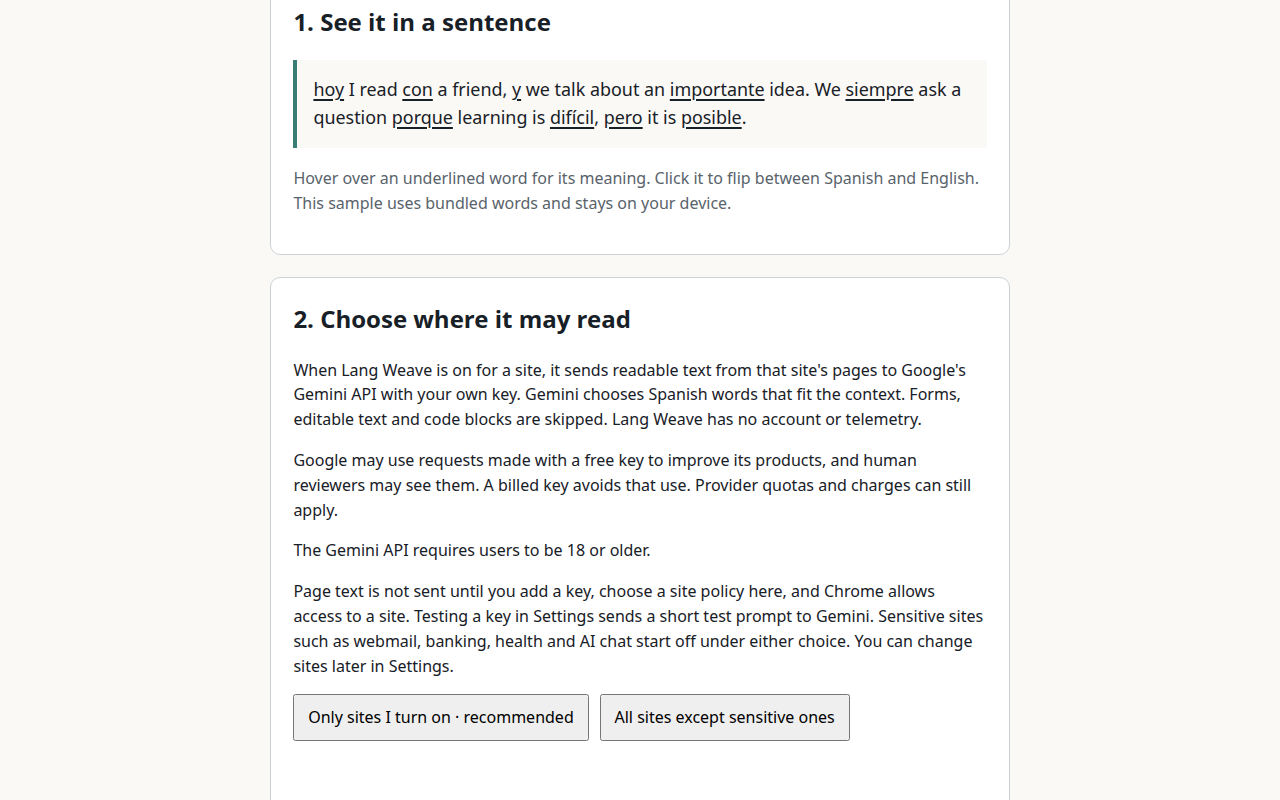
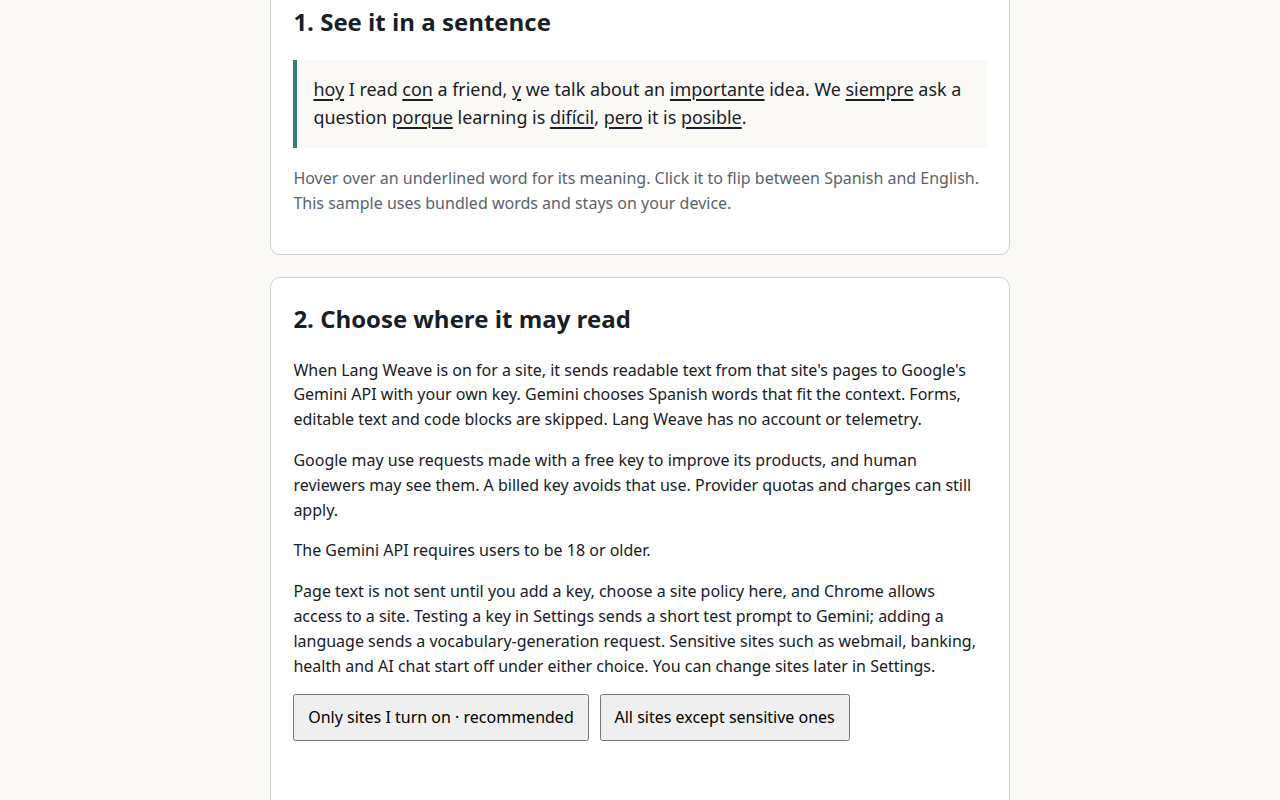
Record export ruling and refresh welcome store screenshot

Changed region(s): [[0.2188, 0.75, 0.7812, 0.8438]]

diff --git a/docs/MISSION.md b/docs/MISSION.md
@@ -6,6 +6,8 @@ Assumptions: generated forms keep exactly the `cleanPack` admission rule; catalo
 
 ## Decision log
 
+- 2026-11-02: Polish-2 council round 1 found a 0.12.21 backup downgrade rejection for newly valid generated forms. The CTO ruled option 2: the 0.12.22 reader stores and imports these retrievals, while schema-2 export omits them and counts them in `logOmitted.retrievals` until 0.12.22 readers have shipped. The existing `guess-log-export` issue now tracks both guess and generated-form export. No backup schema or tuple changed. Council also found a concurrent skipped-counter race, closed-root keyboard retargeting, HTTP panel IDs, forward Tab placement, opening live-region timing, and description fallback; repairs and convergence gates follow.
+
 - 2026-11-02: `polish-2` (PR #45) uses closed shadow roots for the guess and inline recall panels. The worker marks a swap guess-eligible at delivery only when its card and a safe choice set permit guessing; the target-word description withholds its gloss until the answer or plain fallback. The guess host has a role/name and is linked from the word; its live status announces opening and result. Tab enters the choices from the focused word. Popup and Settings route pending consent to welcome; Settings disables its site-default select before the first choice. The learning log and generated packs share `validPackForm`, with unchanged pack admissions and catalog membership as the privacy boundary. Refused writes increment a bounded local diagnostic key excluded from backups and shown in My words as “Measurements skipped.” No FSRS, log or backup format changed. Version 0.12.22. Chromium `e2e/guess.mjs` passed after the CTO renewed a three-attempt budget for deterministic harness failures; remaining gates, council and merge follow.
 
 - 2026-11-01: Guess first (`inference-step`; [record](INFERENCE-MISSION.md), PR #42). An opt-in `guessFirst` setting, gradual mode only. On a learning word's first encounters, the 700 ms dwell shows the right meaning among two or three deterministic pack distractors, shuffled by word and local day. This happens for up to three guesses, at most one a local day (a bend: repeat guesses within minutes measure short-term memory). A trusted choice reveals the gloss and logs a `guess` retrieval: receptive, correct or incorrect, with worker-measured latency. Dismissing records nothing. A wrong guess is applied exactly as a peek; a right one changes no card; FSRS is untouched. Every review measure excludes guesses. My words adds first-guess accuracy and next-day recall of guessed against other words. The setting is stored only while on and stays out of the reading revision. Builds up to 0.12.18 refuse a backup holding a guess tuple, so schema 2 export leaves guesses out (counted in `logOmitted`) until a later release, per the release-order rule. The lead ruled option B and accepted the one-a-day bend; `guess-log-export` tracks enabling export later. Builds up to 0.12.20 refuse guess tuples. Version 0.12.21.

diff --git a/docs/LEARNING-CORE-MISSION.md b/docs/LEARNING-CORE-MISSION.md
@@ -2,7 +2,7 @@
 
 ## 0.12.22 word-form and diagnostics follow-up
 
-PR #45 gives generated packs and learning-log IDs one `validPackForm` rule without changing pack admissions. Catalog membership remains the log privacy boundary. Admitted punctuation forms such as `il/elle`, `z.B.` and `EU:n` now log; `1.000`, cited in the issue, has no letter and has never passed `cleanPack`. Refused retrieval and exposure writes increment a bounded `measurementsSkipped` local counter, with worker-memory carryover during storage errors. My words displays it in “Is this working?”; learning backup excludes the key. The log tuple, FSRS state and backup schema remain unchanged.
+PR #45 gives generated packs and learning-log IDs one `validPackForm` rule without changing pack admissions. Catalog membership remains the log privacy boundary. Admitted punctuation forms such as `il/elle`, `z.B.` and `EU:n` now log; `1.000`, cited in the issue, has no letter and has never passed `cleanPack`. Refused retrieval and exposure writes increment a bounded `measurementsSkipped` local counter, with worker-memory carryover during storage errors. My words displays it in “Is this working?”; learning backup excludes the key. The log tuple, FSRS state and backup schema remain unchanged. CTO ruling 2026-11-02: schema-2 export leaves new-form retrievals out and counts them in `logOmitted.retrievals` until 0.12.22 readers have shipped, since 0.12.21 rejects those IDs on import. The current reader still imports them. `guess-log-export` tracks enabling export later.
 
 State: phase 1 (standalone modules) merged in PR #19 at `eee1bfe`. Phase 2 is a two-PR stack. The bottom PR is the tolerant-reader release, 0.12.5 on branch `learning-core-reader`. The top PR is the writer release on branch `learning-core-writer`. Ditz issues `fsrs-scheduler` and `learning-event-log` stay open until the writer merges.
 

diff --git a/docs/CHANGELOG.md b/docs/CHANGELOG.md
@@ -6,7 +6,7 @@ Fork pull requests: <https://github.com/tedks/lang-weave/pulls?q=is%3Apr+is%3Ame
 
 ## 0.12.22 (2026-11-02)
 
-- #45 Guess choices and inline recall controls are isolated from page styles; screen readers hear choices before the gloss and hear the result when answered. A closed welcome page can be reopened from the popup, Settings keeps the first site choice on welcome, and My words shows how many local measurements were skipped. Generated vocabulary forms that pass pack validation can now be recorded in the learning log.
+- #45 Guess choices and inline recall controls are isolated from page styles; screen readers hear choices before the gloss and hear the result when answered. A closed welcome page can be reopened from the popup, Settings keeps the first site choice on welcome, and My words shows how many local measurements were skipped. Generated vocabulary forms that pass pack validation can now be recorded in the learning log. Backups count and leave out those new-form retrievals until a later release, so older readers can import the file.
 
 ## 0.12.21 (2026-11-02)
 
